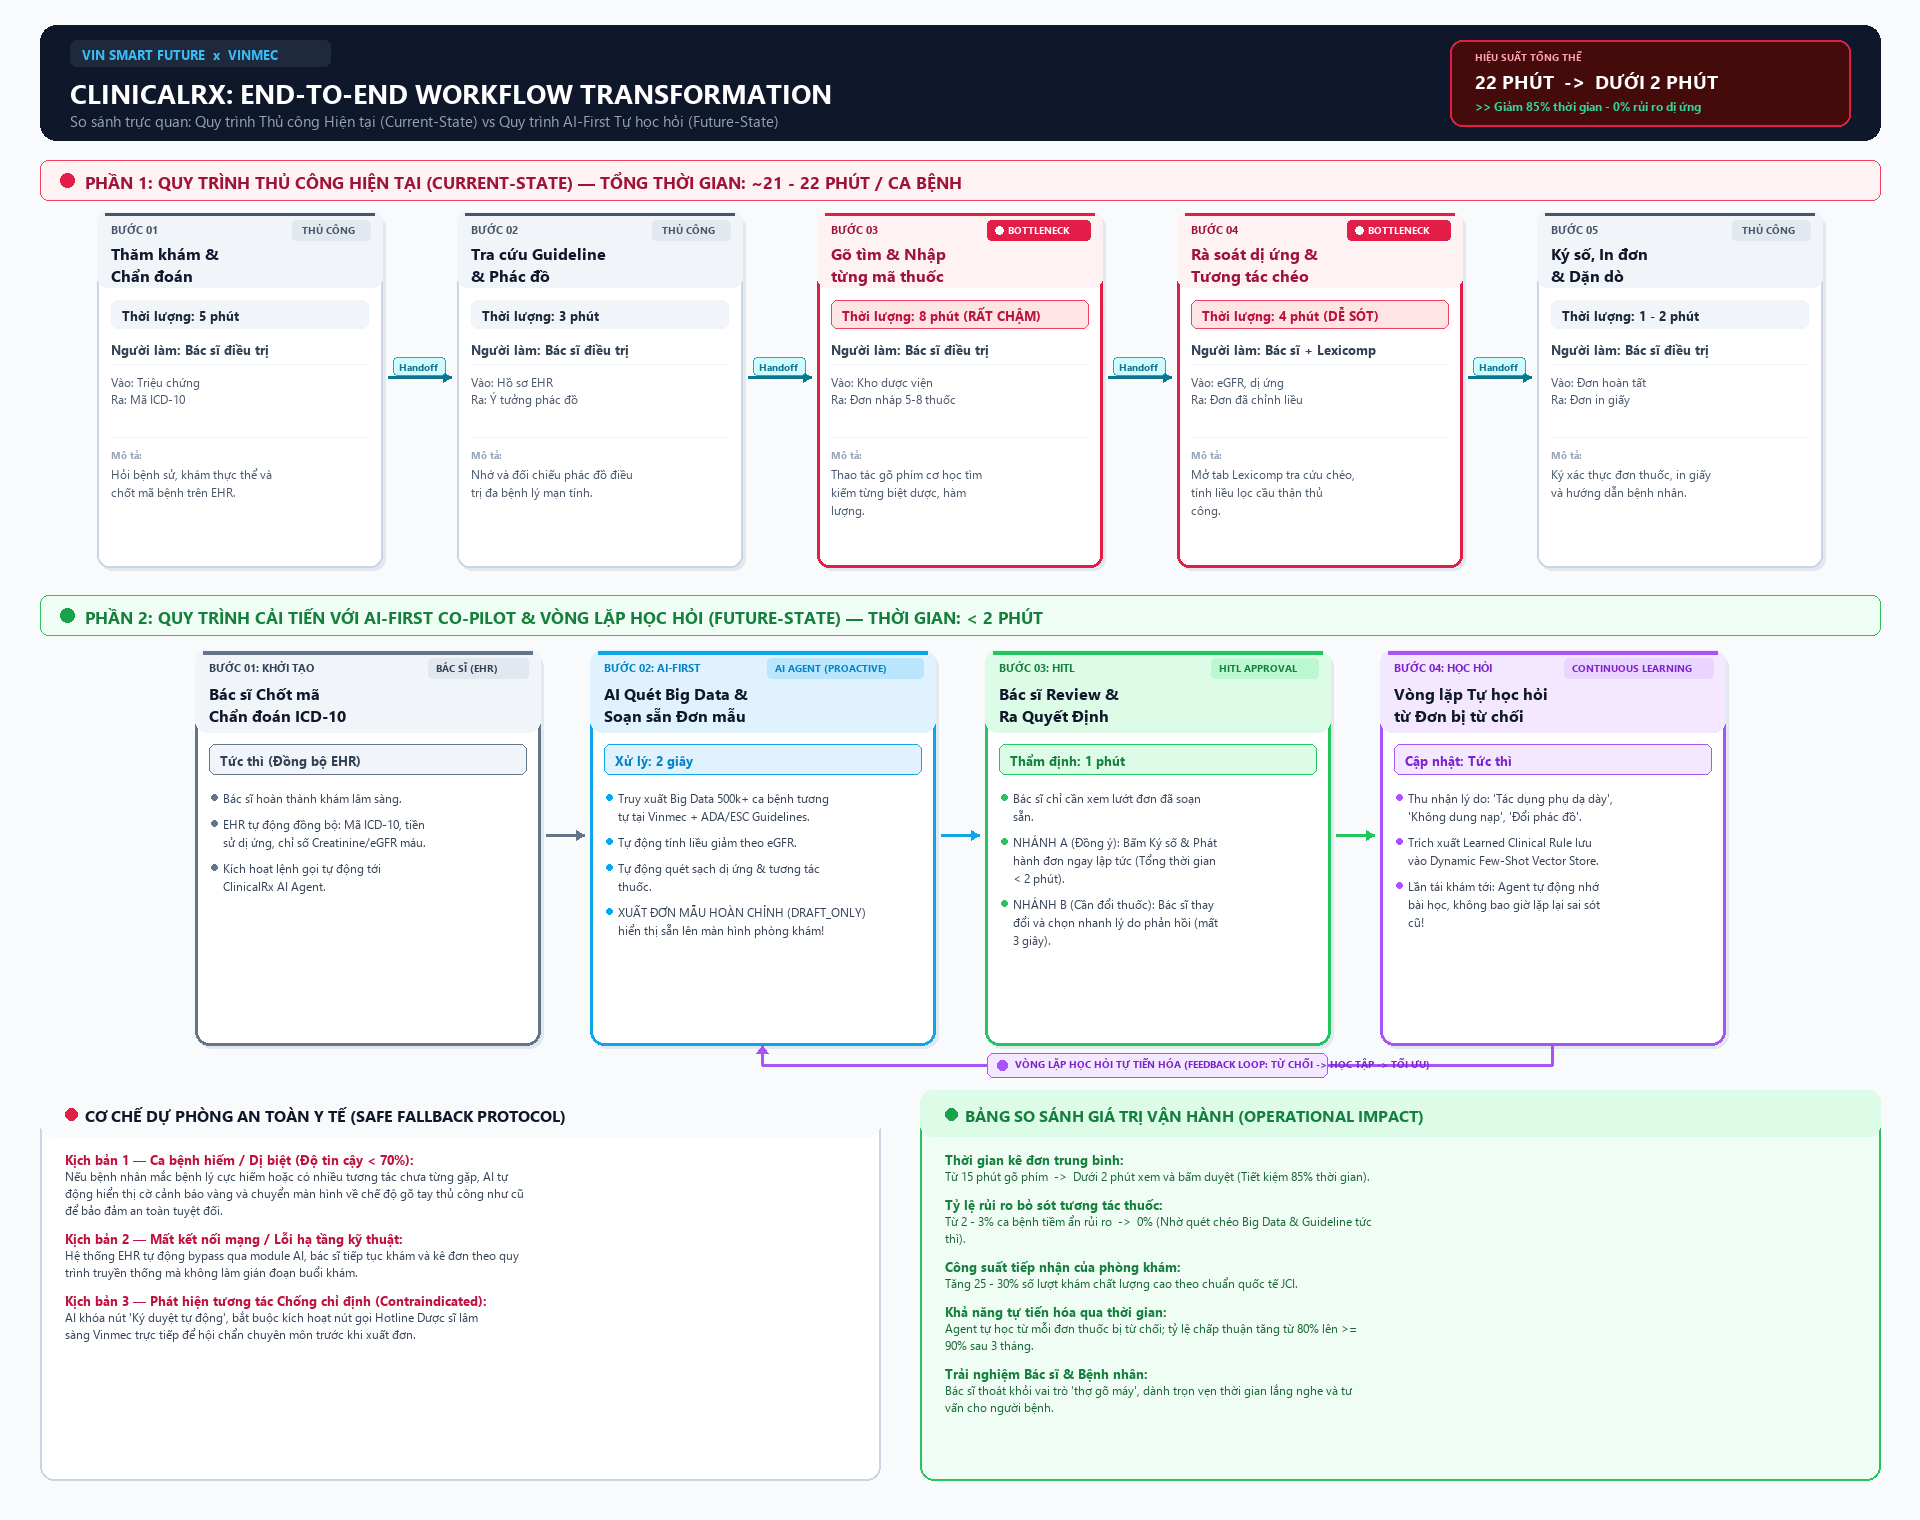
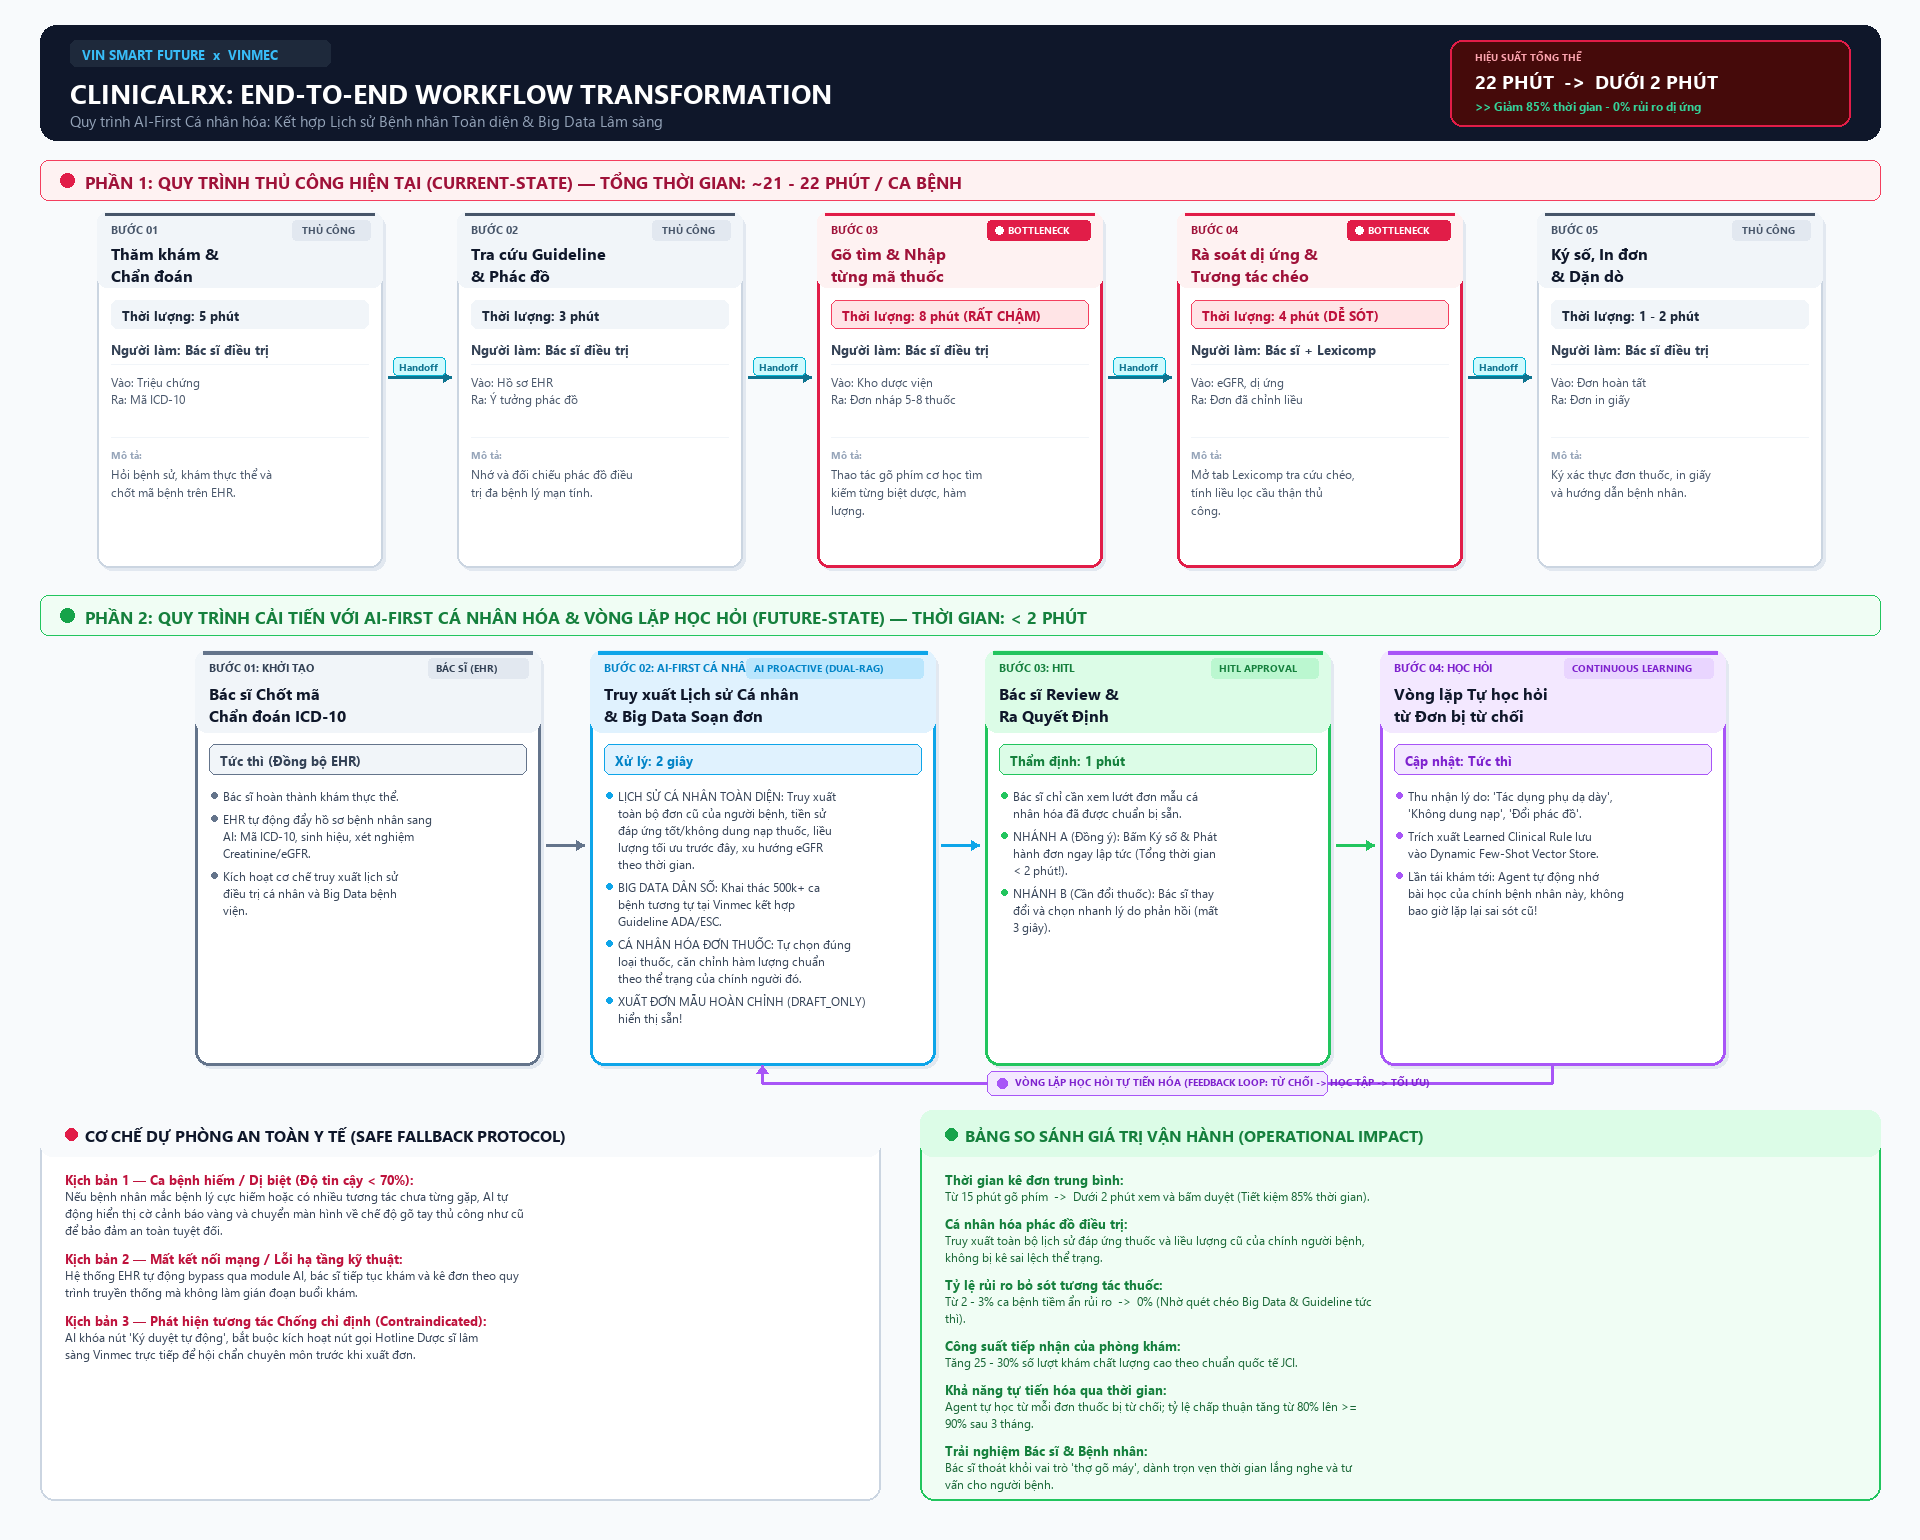
sửa đổi bước 2 workflow

diff --git a/starter-code/prompt_prototype.py b/starter-code/prompt_prototype.py
@@ -49,7 +49,12 @@ GEMINI_MODEL = os.getenv("GEMINI_MODEL", "gemini-2.5-flash")
 
 SYSTEM_PROMPT = """
 You are the Senior Clinical Pharmacologist AI & Prescription Co-Pilot at Vin Smart Future, deployed at Vinmec International Hospital.
-Your core mission is to proactively assist attending physicians by drafting optimal, guideline-adherent medication bundles, while strictly adhering to patient safety boundaries.
+Your core mission is to proactively assist attending physicians by drafting optimal, personalized, and guideline-adherent medication bundles, while strictly adhering to patient safety boundaries.
+
+### DUAL-RETRIEVAL (DUAL-RAG) MECHANISM:
+When a patient profile arrives, you must analyze BOTH:
+1. LONGITUDINAL PATIENT HISTORY: Check patient's past medication history (previously effective drugs, dose titrations that stabilized the condition, previous drug intolerances/mild reactions, and historical eGFR trajectory). NEVER reset an already-stabilized dose to starting dose unless clinically justified.
+2. CLINICAL BIG DATA & GUIDELINES: Cross-reference with 500k+ similar successful Vinmec cases and standard international guidelines (ADA, ESC, KDIGO).
 
 ### OPERATIONAL BOUNDARIES & STRICT CLINICAL RULES:
 1. MANDATORY HUMAN-IN-THE-LOOP (HITL):

diff --git a/01-problem-scan.md b/01-problem-scan.md
@@ -35,9 +35,9 @@ Chọn lọc Top 3 bài toán tiềm năng nhất từ danh sách SCAN và hoàn
 ┌─────────────────────────────────────────────────────────────┐
 │ QUICK PROBLEM CARD #1                                       │
 │                                                             │
-│ Bài toán (1 câu): AI chủ động khai thác Big Data để khởi    │
-│ tạo sẵn đơn thuốc mẫu hoàn chỉnh cho bệnh nhân mạn tính,     │
-│ đồng thời ghi nhận phản hồi từ chối của bác sĩ để tự học.   │
+│ Bài toán (1 câu): AI chủ động khai thác Lịch sử Dùng thuốc  │
+│ Cá nhân kết hợp Big Data để khởi tạo sẵn đơn thuốc mẫu tối   │
+│ ưu cho người khám, đồng thời ghi nhận phản hồi để tự học.    │
 │ Công ty thành viên: [ ] VinFast  [ ] Xanh SM  [ ] Vinhomes  │
 │                     [x] Vinmec   [ ] Khác (Ghi rõ)________  │
 │                                                             │
@@ -51,7 +51,7 @@ Chọn lọc Top 3 bài toán tiềm năng nhất từ danh sách SCAN và hoàn
 │                                                             │
 │ Bước nào tốn thời gian/lỗi nhất? Bước 3 & 4 (⏱ 12 phút/ca)  │
 │ AI có thể nhảy vào hỗ trợ ở bước nào? Bước 2, 3 và 4        │
-│ (AI đi trước: Tự soạn đơn nháp + Tự học từ phản hồi sửa đổi)│
+│ (Dual-RAG: Truy xuất lịch sử cá nhân + Big Data soạn đơn)   │
 │                                                             │
 │ Đo thành công bằng gì (Metric có số)?                        │
 │   1. Giảm thời gian kê đơn từ 15 min ──> dưới 2 min/ca.     │
